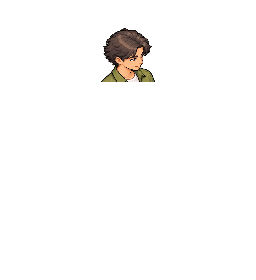
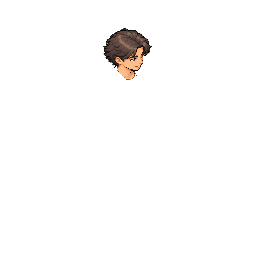
Skeleton rig: layers, and a head cut along the art
- Layers: a character can wear extra images per part (hair, glasses, hats,
  jackets), drawn right over the part and moved exactly with it. They live
  in characters/<name>/layers/<layer>/<view>/<part>.png; bake.py --layers
  picks which to wear (walk only until idle and sitting are on the rig).
- accessories.py draws the first two: a rust knit beanie (front and back)
  and round glasses (front).
- The head and torso are no longer cut with a straight line: pixels are
  sorted by colour (hair, skin, the rest), the hair-and-skin regions above
  the neck are the head (the hand on the mug stays with the torso), and
  outlines follow what they border.
- The viewer (viewer.py) gains wear toggles; its output is gitignored.
The walk still matches the old rig's frames.

Changed region(s): [[0.5312, 0.2286, 0.625, 0.3143], [0.4062, 0.2286, 0.5, 0.3143]]

diff --git a/art/avatar-rig/skeleton/viewer.template.html b/art/avatar-rig/skeleton/viewer.template.html
@@ -26,7 +26,8 @@ code{font-size:13px}
  <canvas id="c" width="192" height="260"></canvas>
  <div class="row"><button id="play" class="on">❚❚ pause</button><input id="f" type="range" min="0" max="7" value="0"><span id="fl">1/8</span></div>
  <div class="row"><button data-view="front" class="on">front (SE)</button><button data-view="back">back (NE)</button></div>
- <div class="row"><button data-shirt="green" class="on">green shirt</button><button data-shirt="navy">navy shirt</button><button id="sk" class="on">skeleton</button>
+ <div class="row"><button data-shirt="green" class="on">green shirt</button><button data-shirt="navy">navy shirt</button><button id="sk" class="on">skeleton</button></div>
+ <div class="row"><span>wear:</span><button data-look="none" class="on">nothing</button><button data-look="beanie">beanie</button><button data-look="glasses">glasses</button><button data-look="both">both</button>
  <label>speed <select id="sp"><option value="250">slow</option><option value="125" selected>normal</option><option value="70">fast</option></select></label></div>
  <div class="row legend"><span><i style="background:#dc2828"></i>near leg (right)</span><span><i style="background:#285ae6"></i>far leg (left)</span><span><i style="background:#1e963c"></i>spine, shoulder, elbow</span></div>
 </div>
@@ -36,10 +37,10 @@ code{font-size:13px}
 </div></div>
 <script>
 const D=__DATA__;
-let view="front",shirt="green",i=0,playing=true,skel=true,ms=125,timer=null;
+let view="front",shirt="green",look="none",i=0,playing=true,skel=true,ms=125,timer=null;
 const c=document.getElementById("c"),g=c.getContext("2d");g.imageSmoothingEnabled=false;
 const cache={};const img=s=>cache[s]||(cache[s]=Object.assign(new Image(),{src:s}));
-function draw(){const key=shirt+"-"+view,im=img(D.frames[key][i]);const go=()=>{g.clearRect(0,0,192,260);g.drawImage(im,0,0);
+function draw(){const key=shirt+"-"+look+"-"+view,im=img(D.frames[key][i]);const go=()=>{g.clearRect(0,0,192,260);g.drawImage(im,0,0);
  if(skel){const J=D.joints[key][i];for(const[a,b]of D.bones){g.strokeStyle=(a+b).includes("near")?"#dc2828":(a+b).includes("far")?"#285ae6":"#1e963c";g.lineWidth=1.5;g.beginPath();g.moveTo(J[a][0],J[a][1]);g.lineTo(J[b][0],J[b][1]);g.stroke();}
  for(const k in J){g.fillStyle="#fff";g.strokeStyle="#222";g.lineWidth=1;g.beginPath();g.arc(J[k][0],J[k][1],2.5,0,7);g.fill();g.stroke();}}
  document.getElementById("f").value=i;document.getElementById("fl").textContent=(i+1)+"/8";};im.complete?go():im.onload=go;}
@@ -49,6 +50,7 @@ document.getElementById("play").onclick=e=>{playing=!playing;e.target.textConten
 document.getElementById("f").oninput=e=>{i=+e.target.value;playing=false;const b=document.getElementById("play");b.textContent="▶ play";b.classList.remove("on");loop();draw();};
 document.querySelectorAll("[data-view]").forEach(b=>b.onclick=()=>{view=b.dataset.view;document.querySelectorAll("[data-view]").forEach(x=>x.classList.toggle("on",x===b));draw();parts();});
 document.querySelectorAll("[data-shirt]").forEach(b=>b.onclick=()=>{shirt=b.dataset.shirt;document.querySelectorAll("[data-shirt]").forEach(x=>x.classList.toggle("on",x===b));draw();});
+document.querySelectorAll("[data-look]").forEach(b=>b.onclick=()=>{look=b.dataset.look;document.querySelectorAll("[data-look]").forEach(x=>x.classList.toggle("on",x===b));draw();});
 document.getElementById("sk").onclick=e=>{skel=!skel;e.target.classList.toggle("on",skel);draw();};
 document.getElementById("sp").onchange=e=>{ms=+e.target.value;loop();};
 draw();parts();loop();

diff --git a/art/avatar-rig/skeleton/rig.py b/art/avatar-rig/skeleton/rig.py
@@ -21,6 +21,10 @@ Part kinds:
            animation's own turn is added on top
   follow   carried along with one joint (the head)
 
+Layers: a character can wear layers (hair, glasses, a hat, a jacket): extra images for a part,
+drawn right over it and moved exactly as it moves. They live in
+characters/<name>/layers/<layer>/<view>/<part>.png, and a bake picks which layers to wear.
+
 Draw order is the order in parts.json, back to front; an animation frame can move a part in
 front of or behind others for that frame ("depth": part -> position in the order).
 """
@@ -39,15 +43,27 @@ MAX_TILT = math.radians(25)  # how far from vertical a bone may be drawn and sti
 
 
 class Character:
-    """One character, one view: its rest joints and its parts (as arrays, full-frame)."""
+    """One character, one view: its rest joints and its parts (as arrays, full-frame), and the
+    layers it's wearing, each drawn over its part (in the order given)."""
 
-    def __init__(self, folder: pathlib.Path):
+    def __init__(self, folder: pathlib.Path, layers: tuple = ()):
         spec = json.load(open(folder / "parts.json"))
         self.size = tuple(spec["frameSize"])
         self.joints = {k: np.array(v, float) for k, v in spec["joints"].items()}
         self.parts = spec["parts"]
         # true lengths for bones not drawn hanging down (bone "a>b" -> px), when a character needs them
         self.lengths = {k: float(v) for k, v in spec.get("lengths", {}).items()}
+        # part -> the layer images over it
+        self.overlays: dict = {}
+        view = folder.name
+        for layer in layers:
+            d = folder.parent / "layers" / layer / view
+            if not (folder.parent / "layers" / layer).is_dir():
+                raise FileNotFoundError(f"no layer {layer!r} for this character")
+            for p in self.parts:  # a layer may skip a view (glasses don't show from behind)
+                f = d / f"{p['part']}.png"
+                if f.exists():
+                    self.overlays.setdefault(p["part"], []).append(np.array(Image.open(f).convert("RGBA")))
         self.images = {p["part"]: np.array(Image.open(folder / f"{p['part']}.png").convert("RGBA")) for p in self.parts}
 
 
@@ -126,22 +142,27 @@ def render(ch: Character, view: str, f: dict) -> Image.Image:
     order = sorted(range(len(ch.parts)), key=lambda i: (depth.get(ch.parts[i]["part"], i), i))
     frame = Image.new("RGBA", ch.size)
     for p in (ch.parts[i] for i in order):
-        arr = ch.images[p["part"]]
-        if p["kind"] == "segment":
-            a, b = p["from"], p["to"]
-            out = _segment(arr, ch.size, J[a], J[b] - J[a], P[a], P[b] - P[a])
-        elif p["kind"] == "rigid":
-            j = p["at"]
-            angle = turns.get(p["part"], 0.0)
-            parent = by_name.get(p.get("inherit", ""))
-            if parent:  # turn with the parent bone as it turns on screen, then the part's own turn
-                a, b = parent["from"], parent["to"]
-                # image y runs down, so a screen turn of +d is a turn of -d for the affine below
-                angle -= _screen_angle(P[b] - P[a]) - _screen_angle(J[b] - J[a])
-            out = _rigid(arr, ch.size, J[j], P[j], angle)
-        else:  # follow
-            j = p["at"]
-            d = P[j] - J[j]
-            out = _affine(arr, ch.size, (1, 0, -d[0], 0, 1, -d[1]))
-        frame.alpha_composite(Image.fromarray(out))
+        for arr in [ch.images[p["part"]], *ch.overlays.get(p["part"], [])]:  # the part, then its layers
+            frame.alpha_composite(Image.fromarray(_place(arr, p, ch, J, P, turns, by_name)))
     return frame
+
+
+def _place(arr, p, ch, J, P, turns, by_name):
+    """One part's image (or a layer over it) moved to where the part goes this frame."""
+    if p["kind"] == "segment":
+        a, b = p["from"], p["to"]
+        out = _segment(arr, ch.size, J[a], J[b] - J[a], P[a], P[b] - P[a])
+    elif p["kind"] == "rigid":
+        j = p["at"]
+        angle = turns.get(p["part"], 0.0)
+        parent = by_name.get(p.get("inherit", ""))
+        if parent:  # turn with the parent bone as it turns on screen, then the part's own turn
+            a, b = parent["from"], parent["to"]
+            # image y runs down, so a screen turn of +d is a turn of -d for the affine below
+            angle -= _screen_angle(P[b] - P[a]) - _screen_angle(J[b] - J[a])
+        out = _rigid(arr, ch.size, J[j], P[j], angle)
+    else:  # follow
+        j = p["at"]
+        d = P[j] - J[j]
+        out = _affine(arr, ch.size, (1, 0, -d[0], 0, 1, -d[1]))
+    return out

diff --git a/art/avatar-rig/skeleton/accessories.py b/art/avatar-rig/skeleton/accessories.py
@@ -1,0 +1,103 @@
+"""Accessories for the first character, drawn in code: layers the rig puts over a part.
+
+Each is a full 256x280 frame, transparent except the accessory, lined up on the character's
+rest pose, saved where the rig looks for layers:
+    characters/green/layers/<layer>/<view>/<part>.png
+
+    beanie   a rust knit beanie with a folded, ribbed cuff (front and back), on the head
+    glasses  round dark-rimmed glasses (front only: from behind the head hides them)
+
+    python3 art/avatar-rig/skeleton/accessories.py
+"""
+import math
+import pathlib
+
+from PIL import Image
+
+HERE = pathlib.Path(__file__).parent
+LAYERS = HERE / "characters" / "green" / "layers"
+SIZE = (256, 280)
+INK = (36, 20, 13, 255)
+KNIT = [(92, 32, 20, 255), (122, 44, 28, 255), (163, 65, 42, 255), (194, 90, 56, 255), (212, 122, 85, 255)]
+RIM = (43, 29, 26, 255)
+GLINT = (255, 246, 224, 255)
+
+
+def canvas():
+    return Image.new("RGBA", SIZE, (0, 0, 0, 0))
+
+
+def outline(im, color=INK):
+    """A 1px outline round everything drawn, like every sprite in the café."""
+    src = im.copy()
+    a = src.getchannel("A").load()
+    w, h = im.size
+    for y in range(h):
+        for x in range(w):
+            if not a[x, y] and any(0 <= x + dx < w and 0 <= y + dy < h and a[x + dx, y + dy] for dx, dy in ((1, 0), (-1, 0), (0, 1), (0, -1))):
+                im.putpixel((x, y), color)
+
+
+def beanie(cx, top, bottom, rx, cuff_h, tilt, light_left=True):
+    """A knit beanie: a dome from `top` down to the cuff, and a ribbed cuff above `bottom`.
+    `tilt` px drops the cuff toward the right (the head's tilt in the art)."""
+    im = canvas()
+    px = im.load()
+    cy = bottom - cuff_h  # where the dome meets the cuff
+    ry = cy - top
+    for y in range(top, bottom + 1):
+        for x in range(int(cx - rx - 2), int(cx + rx + 3)):
+            u = (x - cx) / rx  # -1..1 across
+            drop = tilt * (u + 1) / 2  # the cuff (and dome edge) sit lower to the right
+            if y <= cy + drop:  # the dome: an ellipse above the cuff line
+                dy = (cy + drop - y) / ry
+                if u * u + dy * dy > 1:
+                    continue
+                # shade: light from the upper left, knit rows every 2px
+                shade = 2 + (1 if (u < -0.2 if light_left else u > 0.2) and dy > 0.35 else 0) - (1 if u > 0.55 or dy < 0.12 else 0)
+                if (y + int(x * 0.5)) % 3 == 0:
+                    shade -= 1  # the knit's little ridges
+                px[x, y] = KNIT[max(0, min(4, shade))]
+            elif y <= cy + drop + cuff_h and abs(u) <= 1.03:  # the folded cuff, ribbed
+                rib = (x % 2 == 0)
+                edge = y >= cy + drop + cuff_h - 1
+                px[x, y] = KNIT[0] if edge else (KNIT[2] if rib else KNIT[1])
+    outline(im)
+    # a glint on the crown
+    for gx, gy in ((cx - rx * 0.45, top + ry * 0.35), (cx - rx * 0.4, top + ry * 0.35 + 1)):
+        im.putpixel((round(gx), round(gy)), KNIT[4])
+    return im
+
+
+def ring(im, cx, cy, rx, ry):
+    """A lens rim: an ellipse outline, with a glint inside."""
+    px = im.load()
+    for k in range(64):
+        t = 2 * math.pi * k / 64
+        px[round(cx + rx * math.cos(t)), round(cy + ry * math.sin(t))] = RIM
+    px[round(cx - rx * 0.4), round(cy - ry * 0.4)] = GLINT
+
+
+def glasses_front():
+    im = canvas()
+    ring(im, 129.5, 60, 4, 3.5)  # the near eye
+    ring(im, 143, 58.5, 3, 3.2)  # the far eye, a little foreshortened by the turn of the head
+    px = im.load()
+    for x in range(134, 140):  # the bridge
+        px[x, 59] = RIM
+    for x, y in ((147, 57), (148, 57), (149, 56), (150, 56)):  # the arm back to the ear
+        px[x, y] = RIM
+    return im
+
+
+def save(im, layer, view, part="head"):
+    d = LAYERS / layer / view
+    d.mkdir(parents=True, exist_ok=True)
+    im.save(d / f"{part}.png")
+    print(layer, view, part, im.getbbox())
+
+
+if __name__ == "__main__":
+    save(beanie(cx=127, top=21, bottom=47, rx=24, cuff_h=6, tilt=-3), "beanie", "front")
+    save(beanie(cx=138, top=21, bottom=48, rx=25, cuff_h=6, tilt=2, light_left=True), "beanie", "back")
+    save(glasses_front(), "glasses", "front")

diff --git a/art/avatar-rig/skeleton/cut_green.py b/art/avatar-rig/skeleton/cut_green.py
@@ -17,7 +17,7 @@ import pathlib
 
 import numpy as np
 from PIL import Image, ImageDraw
-from scipy.ndimage import binary_dilation
+from scipy.ndimage import binary_dilation, distance_transform_edt, label
 
 HERE = pathlib.Path(__file__).parent
 RIG = HERE.parent / "authoring"
@@ -37,6 +37,45 @@ def save(view, parts, joints, spec):
         Image.fromarray(arr).save(d / f"{name}.png")
     json.dump({"frameSize": [256, 280], "joints": joints, "parts": spec}, open(d / "parts.json", "w"), indent=1)
     print(view, sorted(parts))
+
+
+def split_head(body: np.ndarray, neck_y: float):
+    """The head (hair, face, neck) and the torso, cut along the art itself rather than a
+    straight line: every pixel is sorted by colour (hair, skin, the rest); hair and skin regions
+    (joined across 1px outline gaps) that start above the neck are the head, so the hand
+    holding the mug, lower on the chest, stays with the torso; each outline pixel goes with
+    whatever it borders."""
+    rgb = body[:, :, :3].astype(float) / 255
+    mx, mn = rgb.max(2), rgb.min(2)
+    v = mx
+    sat = np.where(mx > 0, (mx - mn) / np.maximum(mx, 1e-6), 0)
+    r, g, b = rgb[:, :, 0], rgb[:, :, 1], rgb[:, :, 2]
+    hue = np.zeros_like(v)
+    d = np.maximum(mx - mn, 1e-6)
+    hue = np.where(mx == r, ((g - b) / d) % 6, np.where(mx == g, (b - r) / d + 2, (r - g) / d + 4)) * 60
+    solid = body[:, :, 3] > 0
+    ink = solid & (v < 0.22)  # the outlines
+    skin = solid & ~ink & (hue < 40) & (r > 0.62) & (sat > 0.15) & (sat < 0.65)
+    hair = solid & ~ink & ~skin & ((hue < 45) | (sat < 0.12)) & (v < 0.72) & ~((sat < 0.12) & (v > 0.6))
+    yy = np.mgrid[: body.shape[0], : body.shape[1]][0]
+    lab, n = label(binary_dilation(hair | skin, iterations=1))
+    head = np.zeros_like(solid)
+    for k in range(1, n + 1):
+        m = lab == k
+        if yy[m].min() < neck_y - 8:  # starts above the neck: hair, face, ears, neck
+            head |= m
+    head &= hair | skin
+    # outlines (and anything left unsorted) go with the nearest sorted pixel
+    sorted_ = solid & ~ink
+    _, (iy, ix) = distance_transform_edt(~sorted_, return_indices=True)
+    head = head | (solid & ~sorted_ & head[iy, ix])
+    # small leftovers up at head height (eye whites, highlights) belong to the face
+    rest, n = label(solid & ~head)
+    for k in range(1, n + 1):
+        m = rest == k
+        if m.sum() < 40 and yy[m].max() < neck_y:
+            head |= m
+    return head, solid & ~head
 
 
 def legs_split(a, leg, knee_y, overlap, shin_bottom=None):
@@ -82,12 +121,13 @@ def front():
     arm = a.copy()
     arm[~am] = 0
     body[am & (yy > 126)] = 0
-    # the head, split off at the collar so the torso can breathe under it
-    NECK_Y = 82
+    # the head, cut along the art (hair, face, neck), so the torso can breathe under it
+    NECK_Y = 82  # the neck joint: where the head turns and rides
+    hm, tm = split_head(body, NECK_Y)
     head = body.copy()
-    head[yy >= NECK_Y] = 0
+    head[~hm] = 0
     torso = body.copy()
-    torso[yy < NECK_Y - 2] = 0  # a 2px overlap, so no gap opens when they move apart a little
+    torso[~tm] = 0
     near, far = cfg["near"], cfg["far"]
     j = {
         "hip.near": near["hip"], "knee.near": near["knee"], "ankle.near": near["ankle"],
@@ -148,10 +188,11 @@ def back():
     arm[~armmask] = 0
     body[armmask & (yy >= 116)] = 0
     NECK_Y = 80
+    hm, tm = split_head(body, NECK_Y)
     head = body.copy()
-    head[yy >= NECK_Y] = 0
+    head[~hm] = 0
     torso = body.copy()
-    torso[yy < NECK_Y - 2] = 0
+    torso[~tm] = 0
     near, far = cfg["near"], cfg["far"]
     j = {
         "hip.near": near["hip"], "knee.near": near["knee"], "ankle.near": near["ankle"],

diff --git a/art/avatar-rig/skeleton/viewer.py b/art/avatar-rig/skeleton/viewer.py
@@ -30,18 +30,20 @@ def b64(im):
 
 def build():
     data = {"frames": {}, "parts": {}, "joints": {}, "bones": BONES}
-    for shirt, hexc in (("green", None), ("navy", "#3c5878")):
+    looks = {"none": (), "beanie": ("beanie",), "glasses": ("glasses",), "both": ("beanie", "glasses")}
+    data["looks"] = list(looks)
+    for (shirt, hexc), (look, layers) in [(s, l) for s in (("green", None), ("navy", "#3c5878")) for l in looks.items()]:
         for view in ("front", "back"):
-            ch = Character(HERE / "characters" / "green" / view)
+            ch = Character(HERE / "characters" / "green" / view, layers=layers)
             if hexc:
                 for p in ch.images:
                     ch.images[p] = recolor(ch.images[p], hexc)
-            key = f"{shirt}-{view}"
+            key = f"{shirt}-{look}-{view}"
             data["frames"][key], data["joints"][key] = [], []
             for f in walk(view):
                 data["frames"][key].append(b64(render(ch, view, f).crop(CROP)))
                 data["joints"][key].append({k: [float(v[0]) - CROP[0], float(v[1]) - CROP[1]] for k, v in pose(ch, view, f).items()})
-            if shirt == "green":
+            if shirt == "green" and look == "none":
                 data["parts"][view] = [{"name": p["part"], "kind": p["kind"], "src": b64(Image.fromarray(ch.images[p["part"]]).crop(CROP))} for p in ch.parts]
     OUT.write_text((HERE / "viewer.template.html").read_text().replace("__DATA__", json.dumps(data)))
     print(OUT)

diff --git a/art/avatar-rig/skeleton/bake.py b/art/avatar-rig/skeleton/bake.py
@@ -58,6 +58,7 @@ def main():
     ap.add_argument("--id", required=True)
     ap.add_argument("--label")
     ap.add_argument("--shirt", help="a #RRGGBB for the overshirt")
+    ap.add_argument("--layers", default="", help="layers to wear, comma separated (e.g. beanie,glasses); walk only for now")
     ap.add_argument("--seated-from", default="green", help="avatar whose seated sheets to reuse")
     args = ap.parse_args()
 
@@ -68,7 +69,7 @@ def main():
     manifest["character"] = args.id
 
     for view in ("front", "back"):
-        ch = Character(HERE / "characters" / args.character / view)
+        ch = Character(HERE / "characters" / args.character / view, layers=tuple(x for x in args.layers.split(",") if x))
         if args.shirt:
             for p in (SHIRT_PARTS or set(ch.images)) & set(ch.images):
                 ch.images[p] = recolor(ch.images[p], args.shirt)
